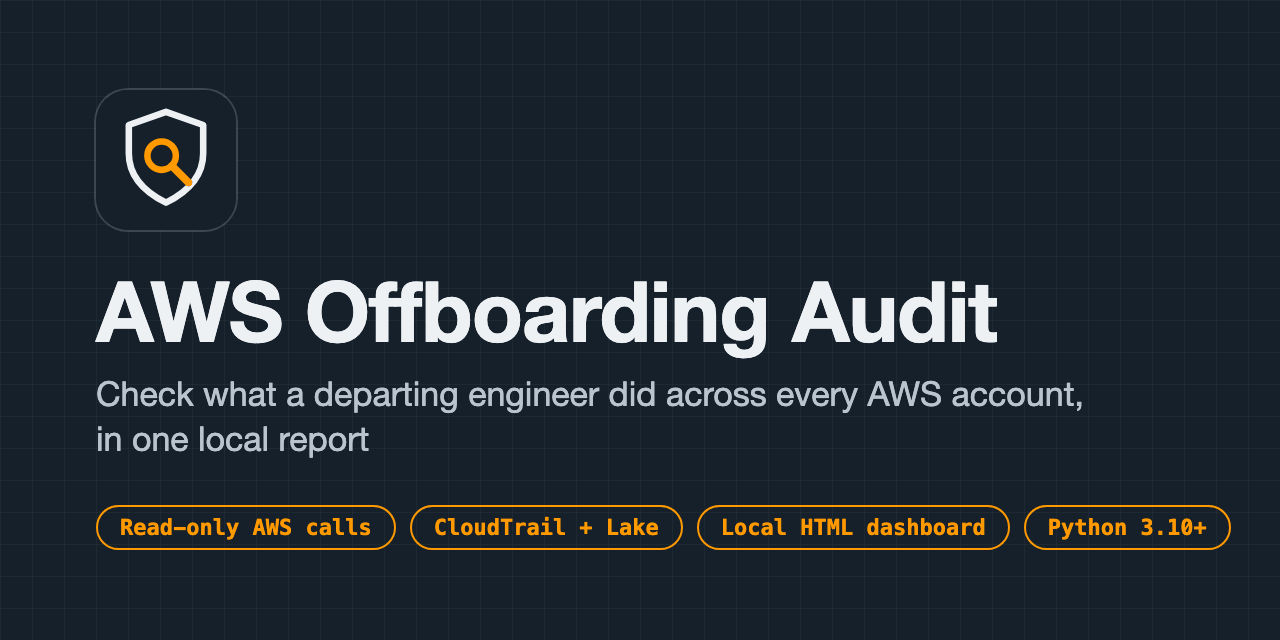
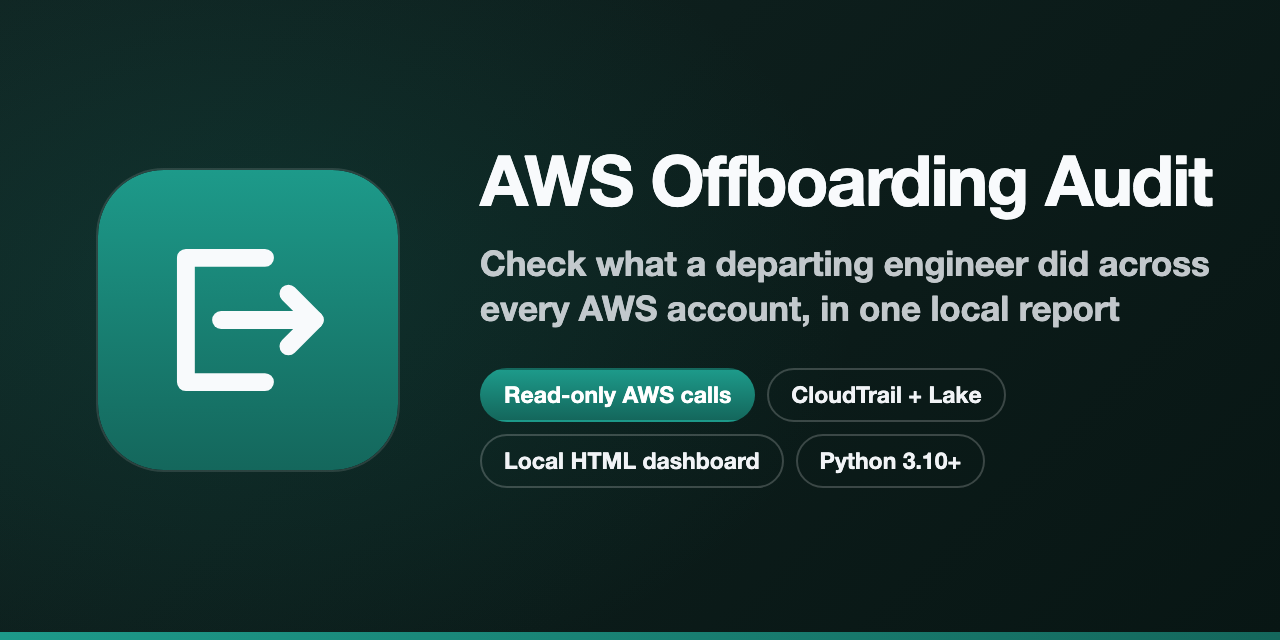
build: replace the hand-rolled brand renderer with the vendored brand kit
Icon, icon PNG and social preview now come from tools/brand/brand_kit.py; make check verifies the icon, make social-preview redraws the preview. make brand and tools/make_brand.py are gone.

Changed region(s): [[0.0625, 0.1562, 0.9688, 0.875], [0.375, 0.2188, 0.9688, 0.3438], [0.0, 0.9688, 1.0, 1.0]]

diff --git a/tools/brand/brand_kit.py b/tools/brand/brand_kit.py
@@ -1,0 +1,180 @@
+#!/usr/bin/env python3
+"""Vendored copy of the CaputoDavide93 brand kit, trimmed to this repo: one icon tile + one social preview layout for every repo.
+
+  python3 brand_kit.py icon   --repo NAME [--out DIR] [--sizes 256,64]
+  python3 brand_kit.py icon   --glyph FILE --hue 200 --out DIR
+  python3 brand_kit.py social --repo NAME --tagline TEXT --chip A --chip B [--icon icon.svg] --out out.png
+  python3 brand_kit.py sheet  [--repos A,B,...] --out sheet.png
+  python3 brand_kit.py all    [--out DIR]
+Needs headless Google Chrome and Pillow. Rendering is deterministic; PNG metadata is stripped.
+"""
+import argparse, colorsys, html, os, pathlib, subprocess, sys, tempfile
+from PIL import Image
+
+HERE = pathlib.Path(__file__).resolve().parent
+CHROME = os.environ.get("CHROME", "/Applications/Google Chrome.app/Contents/MacOS/Google Chrome")
+INK = "#F8FAFC"
+
+# Family order. Hue steps by 12 slots (12 is coprime with 29), so every repo gets its own
+# hue and neighbours in this list are ~140 degrees apart. Slots span 100..400 degrees: the
+# muddy 40-100 yellow/olive band, where a white glyph cannot hold contrast, is skipped.
+REPOS = ["AWS-OffBoarding-Audit"]
+def hue_of(repo):
+    return 172  # fixed hue for this repo
+
+# ---- colour -----------------------------------------------------------------
+def _lum(rgb):
+    f = lambda c: c / 12.92 if c <= .03928 else ((c + .055) / 1.055) ** 2.4
+    r, g, b = (f(c) for c in rgb)
+    return .2126 * r + .7152 * g + .0722 * b
+def _hex(h, s, l):
+    r, g, b = colorsys.hls_to_rgb(h / 360, l, s)
+    return "#%02X%02X%02X" % (round(r * 255), round(g * 255), round(b * 255)), (r, g, b)
+def _contrast(rgb):  # against near-white ink
+    return (_lum((.97, .98, .99)) + .05) / (_lum(rgb) + .05)
+def palette(hue):
+    """(top, bottom, mid) hex. Same saturation, lightness 54/40; yellows and greens are
+    darkened just enough that the white glyph keeps 3.2:1 (top) and 4.5:1 (bottom)."""
+    s, lt, lb = .68, .55, .41
+    while _contrast(_hex(hue, s, lt)[1]) < 3.2 and lt > .30: lt -= .01
+    while _contrast(_hex(hue, s, lb)[1]) < 4.5 and lb > .20: lb -= .01
+    lb = min(lb, lt - .12)
+    return _hex(hue, s, lt)[0], _hex(hue, s, lb)[0], _hex(hue, s, (lt + lb) / 2)[0]
+def dark_bg(hue):
+    return _hex(hue, .38, .10)[0], _hex(hue, .45, .06)[0]
+
+# ---- rendering --------------------------------------------------------------
+def render(html_doc, w, h, out, transparent=False):
+    with tempfile.TemporaryDirectory() as td:
+        p = pathlib.Path(td) / "p.html"
+        p.write_text(html_doc)
+        shot = pathlib.Path(td) / "s.png"
+        cmd = [CHROME, "--headless=new", "--disable-gpu", "--hide-scrollbars", "--no-sandbox",
+               "--force-device-scale-factor=1", f"--window-size={w},{h}",
+               "--virtual-time-budget=3000", f"--screenshot={shot}", f"file://{p}"]
+        if transparent: cmd.insert(2, "--default-background-color=00000000")
+        subprocess.run(cmd, check=True, capture_output=True)
+        im = Image.open(shot).convert("RGBA" if transparent else "RGB")
+    # fresh image = no metadata chunks
+    clean = Image.new(im.mode, im.size); clean.paste(im)
+    pathlib.Path(out).parent.mkdir(parents=True, exist_ok=True)
+    clean.save(out, optimize=True)
+    return clean
+
+def icon_svg(glyph_fragment, hue):
+    top, bot, _ = palette(hue)
+    gid = f"g{hue}"
+    return (f'<svg xmlns="http://www.w3.org/2000/svg" viewBox="0 0 1024 1024" width="1024" height="1024">'
+            f'<defs><linearGradient id="{gid}" x1="0" y1="0" x2="0" y2="1">'
+            f'<stop offset="0" stop-color="{top}"/><stop offset="1" stop-color="{bot}"/></linearGradient></defs>'
+            f'<rect width="1024" height="1024" rx="225" fill="url(#{gid})"/>\n{glyph_fragment.strip()}\n</svg>\n')
+
+def make_icon(glyph_svg_fragment, hue, out_svg, out_png_sizes=(256,)):
+    """glyph fragment is drawn in a 1024 space; out_png_sizes -> files icon-<n>.png beside out_svg
+    (a dict {size: path} is also accepted)."""
+    out_svg = pathlib.Path(out_svg).resolve(); out_svg.parent.mkdir(parents=True, exist_ok=True)
+    svg = icon_svg(glyph_svg_fragment, hue); out_svg.write_text(svg)
+    sizes = out_png_sizes if isinstance(out_png_sizes, dict) else {n: out_svg.parent / f"icon-{n}.png" for n in out_png_sizes}
+    if sizes:
+        big = render(f'<body style="margin:0;background:transparent"><img src="file://{out_svg}" width=1024 height=1024 style="display:block">',
+                     1024, 1024, out_svg.parent / ".icon-1024.tmp.png", transparent=True)
+        (out_svg.parent / ".icon-1024.tmp.png").unlink()
+        for n, path in sizes.items():
+            c = big.resize((int(n), int(n)), Image.LANCZOS)
+            pathlib.Path(path).parent.mkdir(parents=True, exist_ok=True)
+            c.save(path, optimize=True)
+    return svg
+
+def make_social(name, tagline, chips, icon_svg_path, hue, out_png):
+    """1280x640, tile left, name, tagline, chips, hue stripe. Same layout for every repo."""
+    top, bot, mid = palette(hue); d1, d2 = dark_bg(hue)
+    chips = list(chips)[:4]
+    chip_html = "".join(f'<span class="c{" f" if i == 0 else ""}">{html.escape(c)}</span>' for i, c in enumerate(chips))
+    doc = f'''<!doctype html><meta charset=utf-8><style>
+*{{box-sizing:border-box;margin:0}}
+body{{width:1280px;height:640px;overflow:hidden;font-family:"Helvetica Neue",Helvetica,Arial,sans-serif;color:{INK};
+ background:radial-gradient(900px 600px at 18% 45%,{mid}33,transparent 70%),linear-gradient(135deg,{d1},{d2});position:relative}}
+.tile{{position:absolute;left:98px;top:170px;width:300px;height:300px;border-radius:22%;box-shadow:0 0 0 2px #ffffff1f}}
+.txt{{position:absolute;left:480px;top:0;width:740px;height:632px;display:flex;flex-direction:column;justify-content:center}}
+h1{{font-weight:800;letter-spacing:-.025em;line-height:1.02;white-space:nowrap;font-size:96px;margin-bottom:26px}}
+h1.wrap{{white-space:normal;font-size:68px;overflow-wrap:anywhere}}
+p{{font-size:35px;line-height:1.28;font-weight:600;color:#E3E6EBd9;margin-bottom:38px;letter-spacing:-.005em}}
+.chips{{display:flex;gap:12px;flex-wrap:wrap}}
+.c{{font-weight:700;font-size:23px;padding:11px 22px;border-radius:99px;border:2px solid #ffffff33;color:#F1F3F6}}
+.c.f{{background:linear-gradient(180deg,{top},{bot});border-color:transparent;color:#fff}}
+.bar{{position:absolute;left:0;right:0;bottom:0;height:8px;background:linear-gradient(90deg,{top},{bot})}}
+</style><img class=tile src="file://{pathlib.Path(icon_svg_path).resolve()}">
+<div class=txt><h1 id=n>{html.escape(name)}</h1><p>{html.escape(tagline)}</p><div class=chips>{chip_html}</div></div><div class=bar></div>
+<script>const h=document.getElementById('n');let s=96;while(h.scrollWidth>740&&s>60){{s-=2;h.style.fontSize=s+'px'}}
+if(h.scrollWidth>740){{h.className='wrap';h.innerHTML=h.textContent.replace(/-/g,'-<wbr>')}}</script>'''
+    return render(doc, 1280, 640, out_png)
+
+def make_sheet(repos, out_png, icon_dir=None):
+    """Labelled contact sheet: 256 px grids on light and dark, then a 64/32/16 row on both."""
+    icon_dir = pathlib.Path(icon_dir or HERE / "out")
+    def cell(r, bg, fg, px):
+        return (f'<figure><img src="file://{icon_dir / r / "icon.svg"}" width={px} height={px}>'
+                f'<figcaption style="color:{fg}">{html.escape(r)}</figcaption></figure>')
+    def small(r, bg, fg):
+        im = lambda px: f'<img src="file://{icon_dir / r / "icon.svg"}" width={px} height={px}>'
+        return (f'<div class=s style="background:{bg};color:{fg}"><div class=row>{im(64)}{im(32)}{im(16)}</div>'
+                f'<span>{html.escape(r)}</span></div>')
+    L, D = ("#F3F4F6", "#1B1D22"), ("#101218", "#C9CDD6")
+    big = lambda bg, fg, t: (f'<section style="background:{bg}"><h2 style="color:{fg}">{t}</h2><div class=g>'
+                             + "".join(cell(r, bg, fg, 256) for r in repos) + '</div></section>')
+    smalls = ('<section style="background:#fff"><h2 style="color:#1B1D22">64 / 32 / 16 px, light and dark</h2><div class=sg>'
+              + "".join(small(r, L[0], L[1]) + small(r, D[0], D[1]) for r in repos) + '</div></section>')
+    cols = 6
+    doc = f'''<!doctype html><meta charset=utf-8><style>
+*{{box-sizing:border-box;margin:0}} body{{width:1900px;font-family:"Helvetica Neue",Arial,sans-serif}}
+section{{padding:48px 60px}} h2{{font-size:26px;font-weight:700;margin-bottom:28px;letter-spacing:-.01em}}
+.g{{display:grid;grid-template-columns:repeat({cols},1fr);gap:40px 24px}}
+figure{{display:flex;flex-direction:column;align-items:center;gap:12px}} figcaption{{font-size:15px;font-weight:600}}
+.sg{{display:grid;grid-template-columns:repeat(4,1fr);gap:0}}
+.s{{display:flex;align-items:center;justify-content:space-between;padding:14px 22px;font-size:14px;font-weight:600;height:84px}}
+.row{{display:flex;align-items:center;gap:14px;flex:none;margin-right:16px}}
+</style>{big(L[0], L[1], "Light background, 256 px")}{big(D[0], D[1], "Dark background, 256 px")}{smalls}'''
+    # first pass to measure height
+    with tempfile.TemporaryDirectory() as td:
+        p = pathlib.Path(td) / "m.html"; p.write_text(doc + '<script>document.title=document.documentElement.scrollHeight</script>')
+        out = subprocess.run([CHROME, "--headless=new", "--disable-gpu", "--no-sandbox", f"--window-size=1900,800",
+                              "--virtual-time-budget=2000", "--dump-dom", f"file://{p}"], capture_output=True, text=True).stdout
+    import re
+    h = int(re.search(r"<title>(\d+)</title>", out).group(1))
+    return render(doc, 1900, h, out_png)
+
+# ---- CLI --------------------------------------------------------------------
+def _glyph(repo): return (HERE / "glyphs" / f"{repo}.svg").read_text()
+
+def main(argv=None):
+    ap = argparse.ArgumentParser(description=__doc__, formatter_class=argparse.RawDescriptionHelpFormatter)
+    sub = ap.add_subparsers(dest="cmd", required=True)
+    a = sub.add_parser("icon"); a.add_argument("--repo"); a.add_argument("--glyph"); a.add_argument("--hue", type=int)
+    a.add_argument("--out", default="."); a.add_argument("--sizes", default="256")
+    b = sub.add_parser("social"); b.add_argument("--repo"); b.add_argument("--name"); b.add_argument("--tagline", required=True)
+    b.add_argument("--chip", action="append", default=[]); b.add_argument("--icon", default="docs/assets/brand/icon.svg")
+    b.add_argument("--hue", type=int); b.add_argument("--out", default="docs/assets/social-preview.png")
+    c = sub.add_parser("sheet"); c.add_argument("--repos"); c.add_argument("--out", default="family-sheet.png")
+    c.add_argument("--icons", help="dir holding <repo>/icon.svg")
+    d = sub.add_parser("all"); d.add_argument("--out", default=str(HERE / "out"))
+    n = ap.parse_args(argv)
+    if n.cmd == "icon":
+        frag = pathlib.Path(n.glyph).read_text() if n.glyph else _glyph(n.repo)
+        hue = n.hue if n.hue is not None else hue_of(n.repo)
+        sizes = [int(x) for x in n.sizes.split(",") if x]
+        make_icon(frag, hue, pathlib.Path(n.out) / "icon.svg", sizes)
+    elif n.cmd == "social":
+        hue = n.hue if n.hue is not None else hue_of(n.repo)
+        make_social(n.name or n.repo, n.tagline, n.chip, n.icon, hue, n.out)
+    elif n.cmd == "sheet":
+        repos = n.repos.split(",") if n.repos else REPOS
+        make_sheet(repos, n.out, n.icons)
+    else:
+        out = pathlib.Path(n.out)
+        for r in REPOS:
+            make_icon(_glyph(r), hue_of(r), out / r / "icon.svg", [256])
+        make_sheet(REPOS, out / "family-sheet.png", out)
+        print("hue table:"); [print(f"  {r:34s}{hue_of(r):4d}") for r in REPOS]
+
+if __name__ == "__main__":
+    sys.exit(main())

diff --git a/README.md b/README.md
@@ -1,6 +1,6 @@
 <div align="center">
 
-<img src="docs/assets/brand/icon-256.png" width="96" height="96" alt="AWS Offboarding Audit icon: a shield with a magnifying glass">
+<img src="docs/assets/brand/icon-256.png" width="96" height="96" alt="AWS Offboarding Audit icon: an arrow leaving a doorway on a teal tile">
 
 # 🛡 AWS Offboarding Audit
 
@@ -213,7 +213,7 @@ make venv     # once
 make check    # secret scan, ruff, unit tests, diagram freshness
 ```
 
-`make check` runs what CI runs, plus Gitleaks in CI. Tests need no AWS access. `tools/gen_diagram.py` draws the diagrams (standard library only); `make diagram` redraws them. `make screenshots` and `make brand` retake the screenshots and the social preview and are not part of CI.
+`make check` runs what CI runs, plus Gitleaks in CI. Tests need no AWS access. `tools/gen_diagram.py` draws the diagrams (standard library only); `make diagram` redraws them. `make screenshots` and `make social-preview` retake the screenshots and the social preview and are not part of CI; `make check` does verify that the icon matches the vendored brand kit.
 
 ---
 
@@ -233,7 +233,7 @@ AWS-OffBoarding-Audit/
 ├── src/                        # 🧠 collector, report builder, dashboard, current-state, Lake, baseline, analysis pass
 ├── tests/                      # 🧪 unittest suite
 │   └── fixtures/gen_sample.py  # 🎲 writes a synthetic sample.json for demos and tests
-├── tools/                      # 🔧 secret scan, diagram generator, screenshot and brand renderers
+├── tools/                      # 🔧 secret scan, diagram generator, screenshot tool, brand kit
 │   └── screenshots/            # 📸 Playwright script behind make screenshots
 ├── docs/                       # 📚 setup, FAQ, troubleshooting, how it works, reference, playbook
 │   └── assets/                 # 🖼 diagrams, screenshots, brand icon, social preview, example report
@@ -241,7 +241,7 @@ AWS-OffBoarding-Audit/
 ├── .github/workflows/          # 🤖 CI: secret scan, ruff, tests, diagram check, Gitleaks
 ├── audit-config.example.yaml   # ⚙ copy to audit-config.yaml
 ├── llms.txt                    # 🔎 one-page summary for AI search
-├── Makefile                    # 🛠 check, diagram, screenshots, brand
+├── Makefile                    # 🛠 check, diagram, screenshots, social-preview
 └── requirements.txt
 ```
 

diff --git a/docs/README.md b/docs/README.md
@@ -23,5 +23,5 @@ Docs follow the Diátaxis split: tutorial, how-to, reference, explanation.
 | [assets/architecture-light.svg](assets/architecture-light.svg) / [assets/architecture-dark.svg](assets/architecture-dark.svg) | Architecture diagram, drawn by `tools/gen_diagram.py` |
 | [assets/pipeline-light.svg](assets/pipeline-light.svg) / [assets/pipeline-dark.svg](assets/pipeline-dark.svg) | Two-stage pipeline diagram, drawn by `tools/gen_diagram.py` |
 | [assets/screenshots/](assets/screenshots/) | Report screenshots from the synthetic sample, taken by `make screenshots` |
-| [assets/brand/icon.svg](assets/brand/icon.svg) | Project icon; `make brand` renders the PNG and the social preview |
+| [assets/brand/icon.svg](assets/brand/icon.svg) | Project icon, drawn by `tools/brand/brand_kit.py`; `make social-preview` redraws the social preview |
 | [assets/social-preview.png](assets/social-preview.png) | 1280x640 social preview, uploaded by hand in the repository settings |

diff --git a/CONTRIBUTING.md b/CONTRIBUTING.md
@@ -25,4 +25,4 @@ Never attach collector output, report files, credentials or unredacted logs to a
 4. Use conventional commit messages (`fix:`, `feat:`, `docs:`).
 5. Use synthetic data only: the AWS documentation account `123456789012`, `leaver@example.com`, and addresses from `192.0.2.0/24` or `203.0.113.0/24`.
 
-Diagrams are drawn by `tools/gen_diagram.py`; run `make diagram` after editing one. Screenshots are retaken with `make screenshots`.
+Diagrams are drawn by `tools/gen_diagram.py`; run `make diagram` after editing one. Screenshots are retaken with `make screenshots`; the icon and social preview come from `tools/brand/brand_kit.py` (`make social-preview`, needs Google Chrome).
